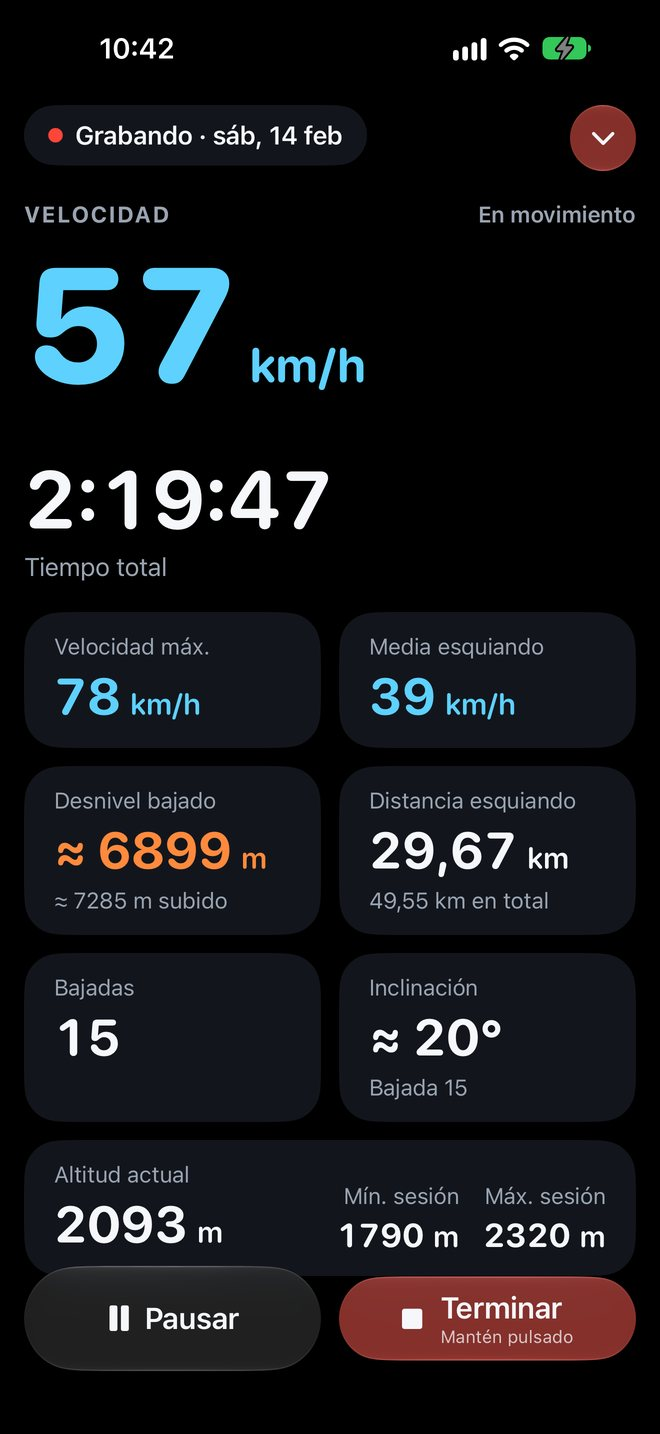
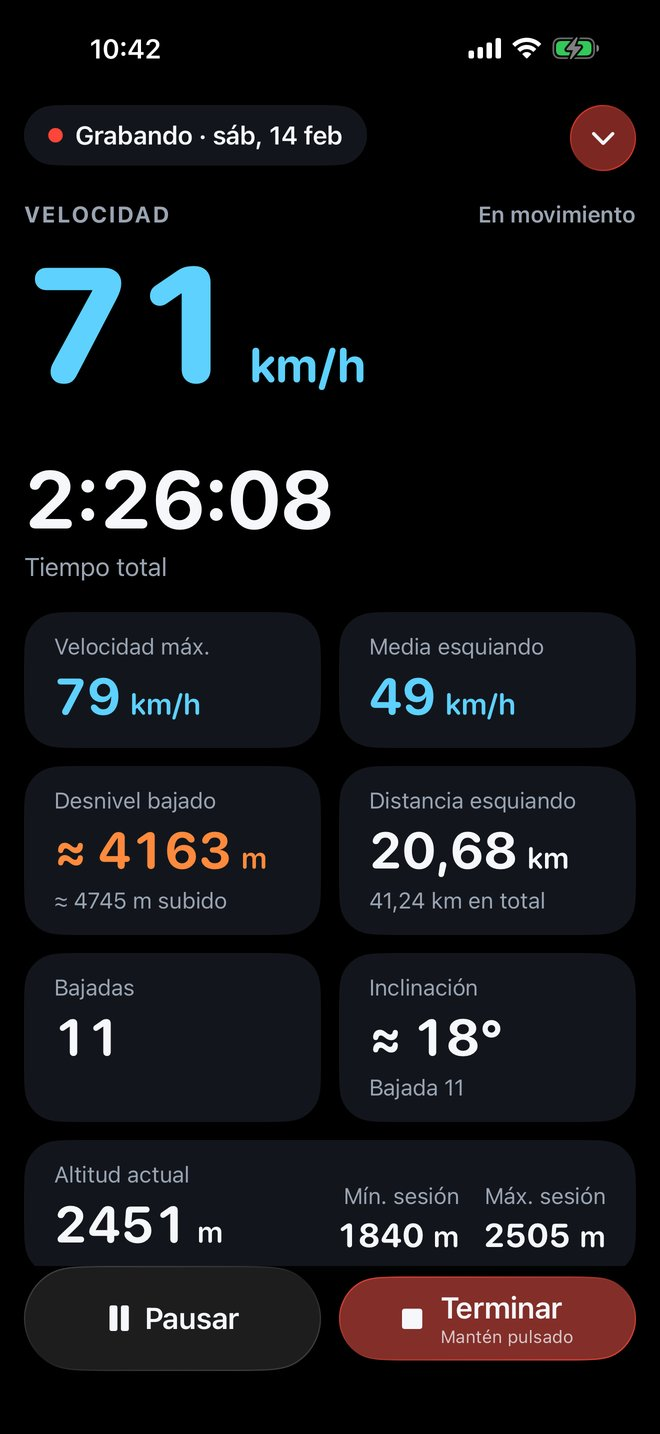
Capturas nuevas: el día destacado sobre pistas reales, en satélite
Textos: la actividad en vivo con sus datos nuevos, el aviso de 30 minutos sin moverte
y las cifras de los textos alternativos.

Claude-Session: https://claude.ai/code/session_014E4hTQ2fxnWrmmEj9CFZkQ

diff --git a/en/index.html b/en/index.html
@@ -100,7 +100,7 @@
       <p>Tap Start and forget about it. SnowTracker tells runs from lifts on its own and shows which run you’re on, how fast you’re going, how much vertical you’ve skied and the slope of the run. With your iPhone locked, the session stays on the Lock Screen, with Pause close at hand.</p>
     </div>
     <div class="telefonos">
-      <div class="telefono"><img src="../img/en/01-sesion.jpg" alt="Session in progress: 36 mph, 2:19:45, 22,635 ft of vertical descent and 15 runs" loading="lazy"></div>
+      <div class="telefono"><img src="../img/en/01-sesion.jpg" alt="Session in progress: 44 mph, 2:26:08, 13,658 ft of vertical descent and 11 runs" loading="lazy"></div>
     </div>
   </section>
 
@@ -112,7 +112,7 @@
       <p class="secundario">Pistes for <a href="resorts/">2,897 ski resorts in 63 countries</a>, built into the app and available offline.</p>
     </div>
     <div class="telefonos">
-      <div class="telefono"><img src="../img/en/02-mapa.jpg" alt="Map of the day at Baqueira Beret with the route colored by speed" loading="lazy"></div>
+      <div class="telefono"><img src="../img/en/02-mapa.jpg" alt="Satellite map of the day at Baqueira Beret with the runs and the route colored by speed" loading="lazy"></div>
       <div class="telefono"><img src="../img/en/04b-bajada.jpg" alt="One run highlighted on the map and the rest dimmed" loading="lazy"></div>
     </div>
   </section>
@@ -147,7 +147,7 @@
       <p>Days, runs, distance and the total vertical of the whole season, compared with the previous one. Your records, each with its day and resort, and every resort where you’ve skied.</p>
     </div>
     <div class="telefonos">
-      <div class="telefono"><img src="../img/en/07-temporada.jpg" alt="Season 2025/26: 282,438 ft of vertical, 21 days and 179 runs" loading="lazy"></div>
+      <div class="telefono"><img src="../img/en/07-temporada.jpg" alt="Season 2025/26: 284,347 ft of vertical, 21 days and 182 runs" loading="lazy"></div>
       <div class="telefono"><img src="../img/en/08-temporada-records.jpg" alt="Season records and resorts" loading="lazy"></div>
     </div>
   </section>
@@ -171,8 +171,8 @@
     <span class="antetitulo">And more</span>
     <h2>Made for <span>the mountains.</span></h2>
     <div class="rejilla">
-      <div class="tarjeta"><h3>On the Lock Screen</h3><p>The session in a Live Activity, with the run, the speed and the time, and Pause without opening the app.</p></div>
-      <div class="tarjeta"><h3>You never lose a session</h3><p>If the app closes or your iPhone turns off, the session is recovered when you come back. And it lets you know when the battery is running low.</p></div>
+      <div class="tarjeta"><h3>On the Lock Screen</h3><p>The session in a Live Activity, with vertical, time, runs and max speed (plus heart rate and calories with the watch), and Pause without opening the app.</p></div>
+      <div class="tarjeta"><h3>You never lose a session</h3><p>If the app closes or your iPhone turns off, the session is recovered when you come back. It lets you know when the battery is running low and, after 30 minutes without moving, asks if you’re still skiing.</p></div>
       <div class="tarjeta"><h3>Save to Health</h3><p>Each day, as a workout in the Health app, with the route and, with the watch, your heart rate and calories.</p></div>
       <div class="tarjeta"><h3>Share the route</h3><p>Export any day’s route as GPX to use it in other apps.</p></div>
       <div class="tarjeta"><h3>Ski, snowboard or telemark</h3><p>Choose your activity; the stats are measured the same way.</p></div>

diff --git a/index.html b/index.html
@@ -100,7 +100,7 @@
       <p>Pulsa «Empezar» y olvídate. SnowTracker separa solo las bajadas de los remontes y te dice en cuál vas, a qué velocidad, cuánto has bajado y la inclinación de la pista. Con el iPhone bloqueado, la sesión sigue en la pantalla de bloqueo, con Pausar a mano.</p>
     </div>
     <div class="telefonos">
-      <div class="telefono"><img src="img/01-sesion.jpg" alt="Sesión en curso: 57 km/h, 2 h 19 min, 6899 m de desnivel bajado y 15 bajadas" loading="lazy"></div>
+      <div class="telefono"><img src="img/01-sesion.jpg" alt="Sesión en curso: 71 km/h, 2 h 26 min, 4163 m de desnivel bajado y 11 bajadas" loading="lazy"></div>
     </div>
   </section>
 
@@ -112,7 +112,7 @@
       <p class="secundario">Pistas de <a href="estaciones/">2.897 estaciones en 63 países</a>, dentro de la app y sin conexión.</p>
     </div>
     <div class="telefonos">
-      <div class="telefono"><img src="img/02-mapa.jpg" alt="Mapa del día en Baqueira Beret con la ruta coloreada por velocidad" loading="lazy"></div>
+      <div class="telefono"><img src="img/02-mapa.jpg" alt="Mapa del día en Baqueira Beret, en satélite, con las pistas y la ruta coloreada por velocidad" loading="lazy"></div>
       <div class="telefono"><img src="img/04b-bajada.jpg" alt="Una bajada destacada en el mapa y el resto atenuado" loading="lazy"></div>
     </div>
   </section>
@@ -147,7 +147,7 @@
       <p>Días, bajadas, kilómetros y el desnivel acumulado de toda la temporada, comparado con la anterior. Tus récords, con el día y la estación de cada uno, y todas las estaciones donde has esquiado.</p>
     </div>
     <div class="telefonos">
-      <div class="telefono"><img src="img/07-temporada.jpg" alt="Temporada 2025/26: 86.087 m de desnivel, 21 días y 179 bajadas" loading="lazy"></div>
+      <div class="telefono"><img src="img/07-temporada.jpg" alt="Temporada 2025/26: 86.669 m de desnivel, 21 días y 182 bajadas" loading="lazy"></div>
       <div class="telefono"><img src="img/08-temporada-records.jpg" alt="Récords de la temporada y estaciones" loading="lazy"></div>
     </div>
   </section>
@@ -171,8 +171,8 @@
     <span class="antetitulo">Y además</span>
     <h2>Pensada para <span>la montaña.</span></h2>
     <div class="rejilla">
-      <div class="tarjeta"><h3>En la pantalla de bloqueo</h3><p>La sesión en una actividad en vivo, con la bajada, la velocidad y el tiempo, y Pausar sin abrir la app.</p></div>
-      <div class="tarjeta"><h3>Nunca pierdes una sesión</h3><p>Si la app se cierra o el iPhone se apaga, la sesión se recupera al volver. Y te avisa cuando queda poca batería.</p></div>
+      <div class="tarjeta"><h3>En la pantalla de bloqueo</h3><p>La sesión en una actividad en vivo, con el desnivel, el tiempo, las bajadas y la velocidad máxima (y, con el reloj, el pulso y las kcal), y Pausar sin abrir la app.</p></div>
+      <div class="tarjeta"><h3>Nunca pierdes una sesión</h3><p>Si la app se cierra o el iPhone se apaga, la sesión se recupera al volver. Te avisa cuando queda poca batería y, si llevas 30 minutos sin moverte, te pregunta si sigues esquiando.</p></div>
       <div class="tarjeta"><h3>Guarda en Salud</h3><p>Cada día, como entrenamiento en la app Salud, con la ruta y, con el reloj, el pulso y las kcal.</p></div>
       <div class="tarjeta"><h3>Comparte la ruta</h3><p>Exporta la ruta de cualquier día en GPX para llevarla a otras apps.</p></div>
       <div class="tarjeta"><h3>Esquí, snowboard o telemark</h3><p>Elige tu actividad; las cifras se miden igual.</p></div>
